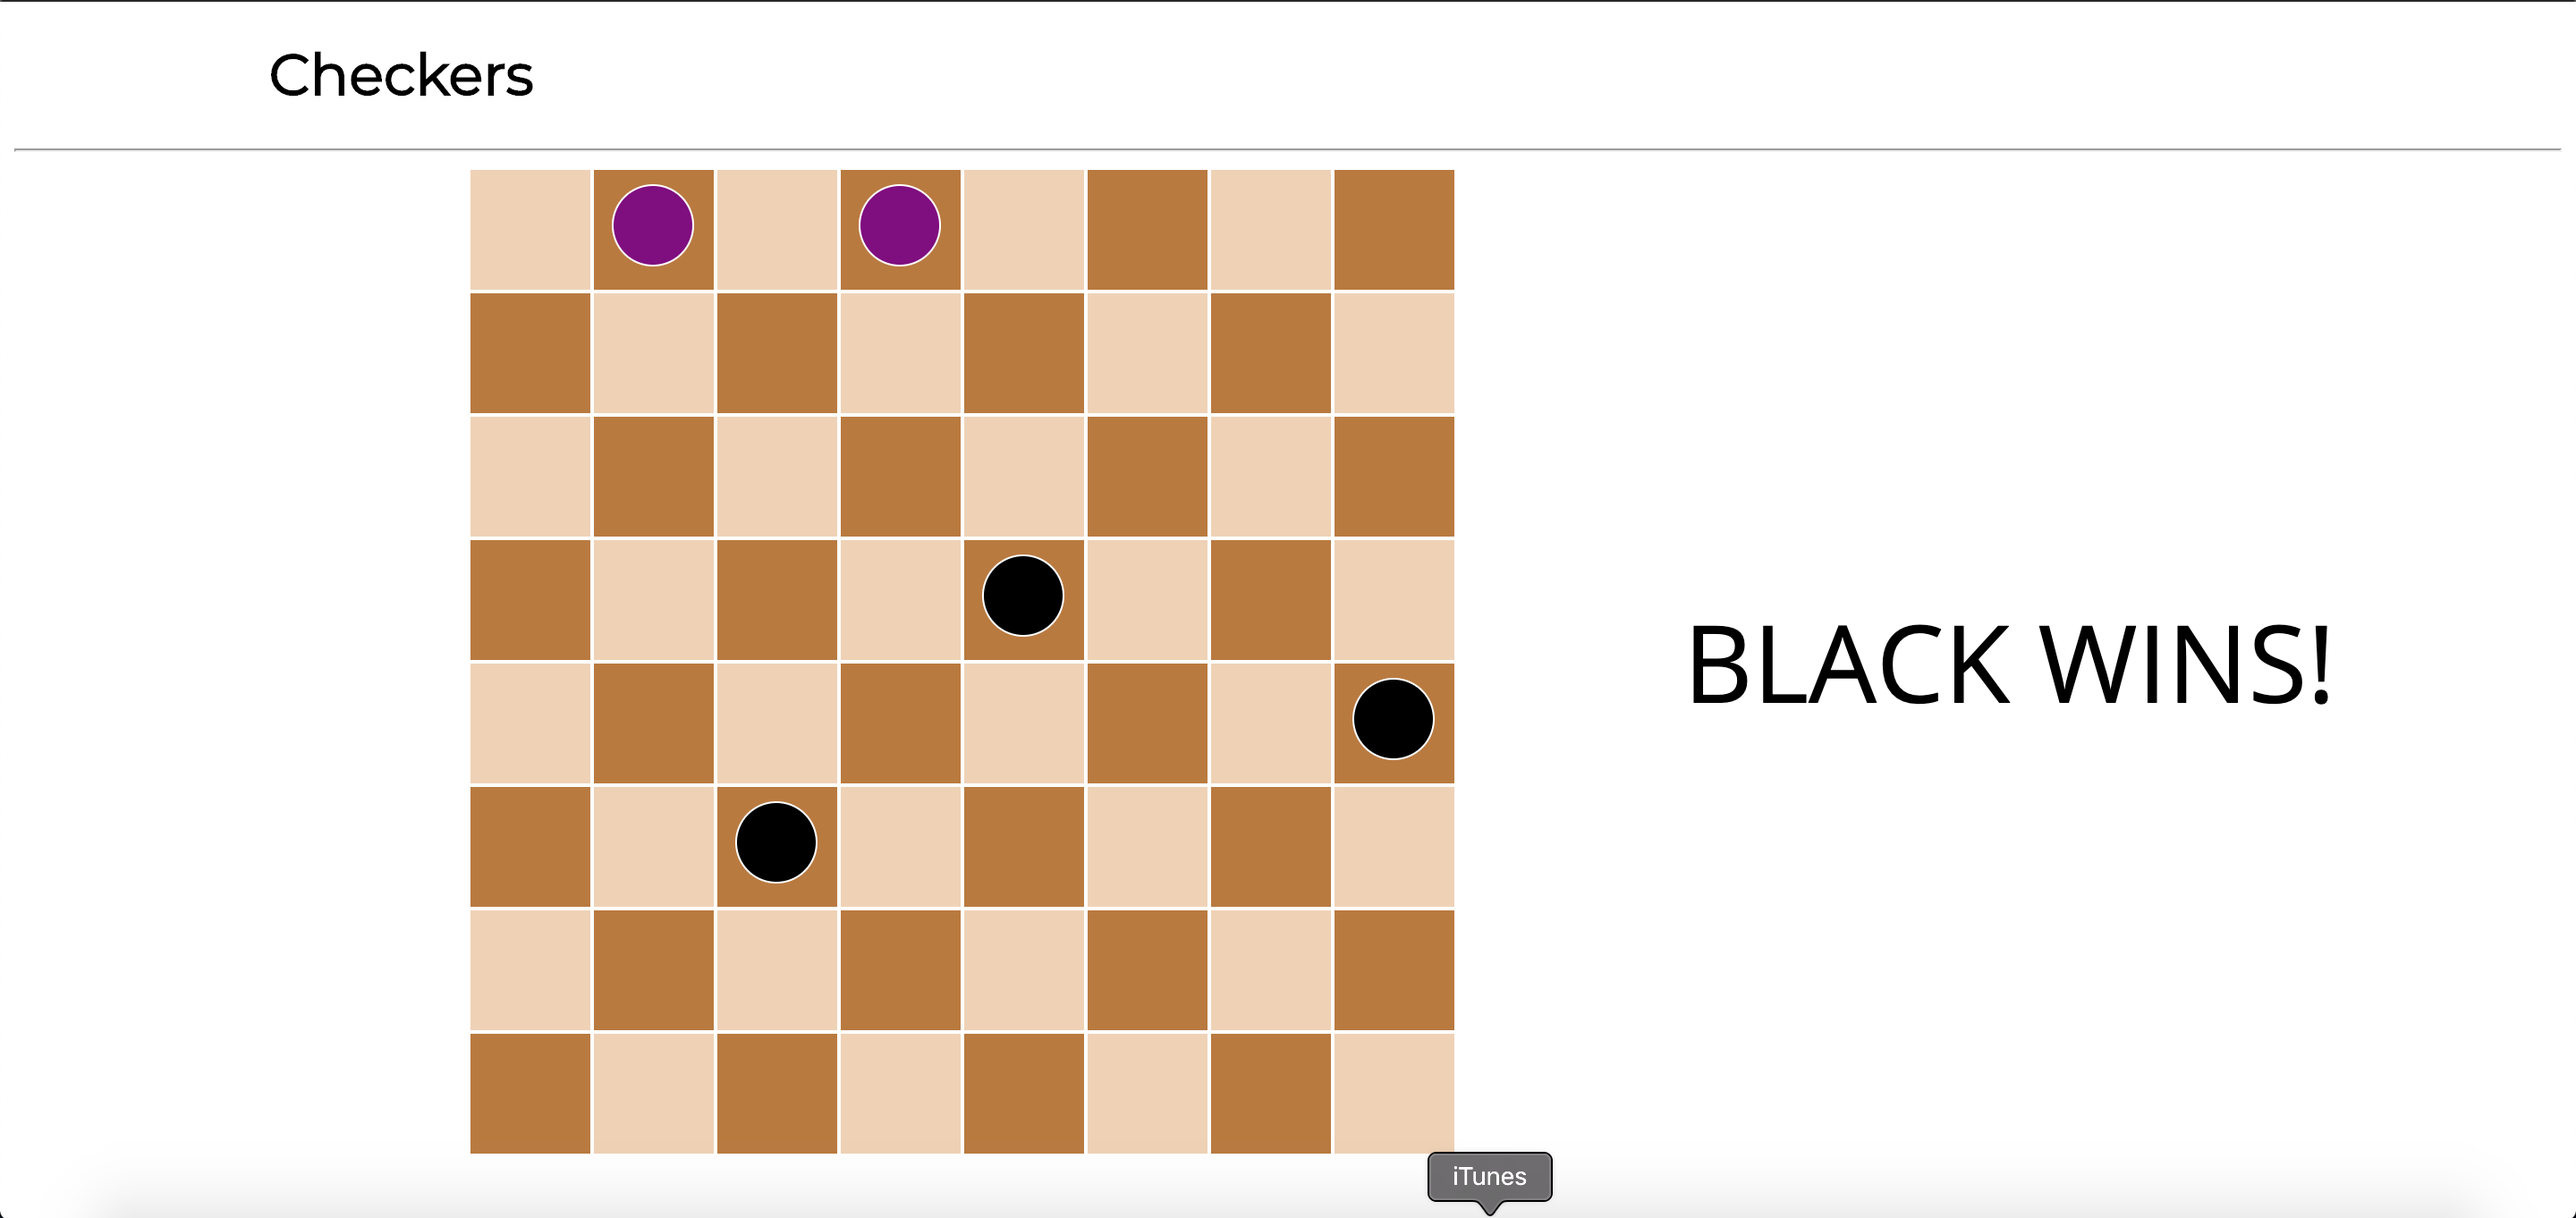
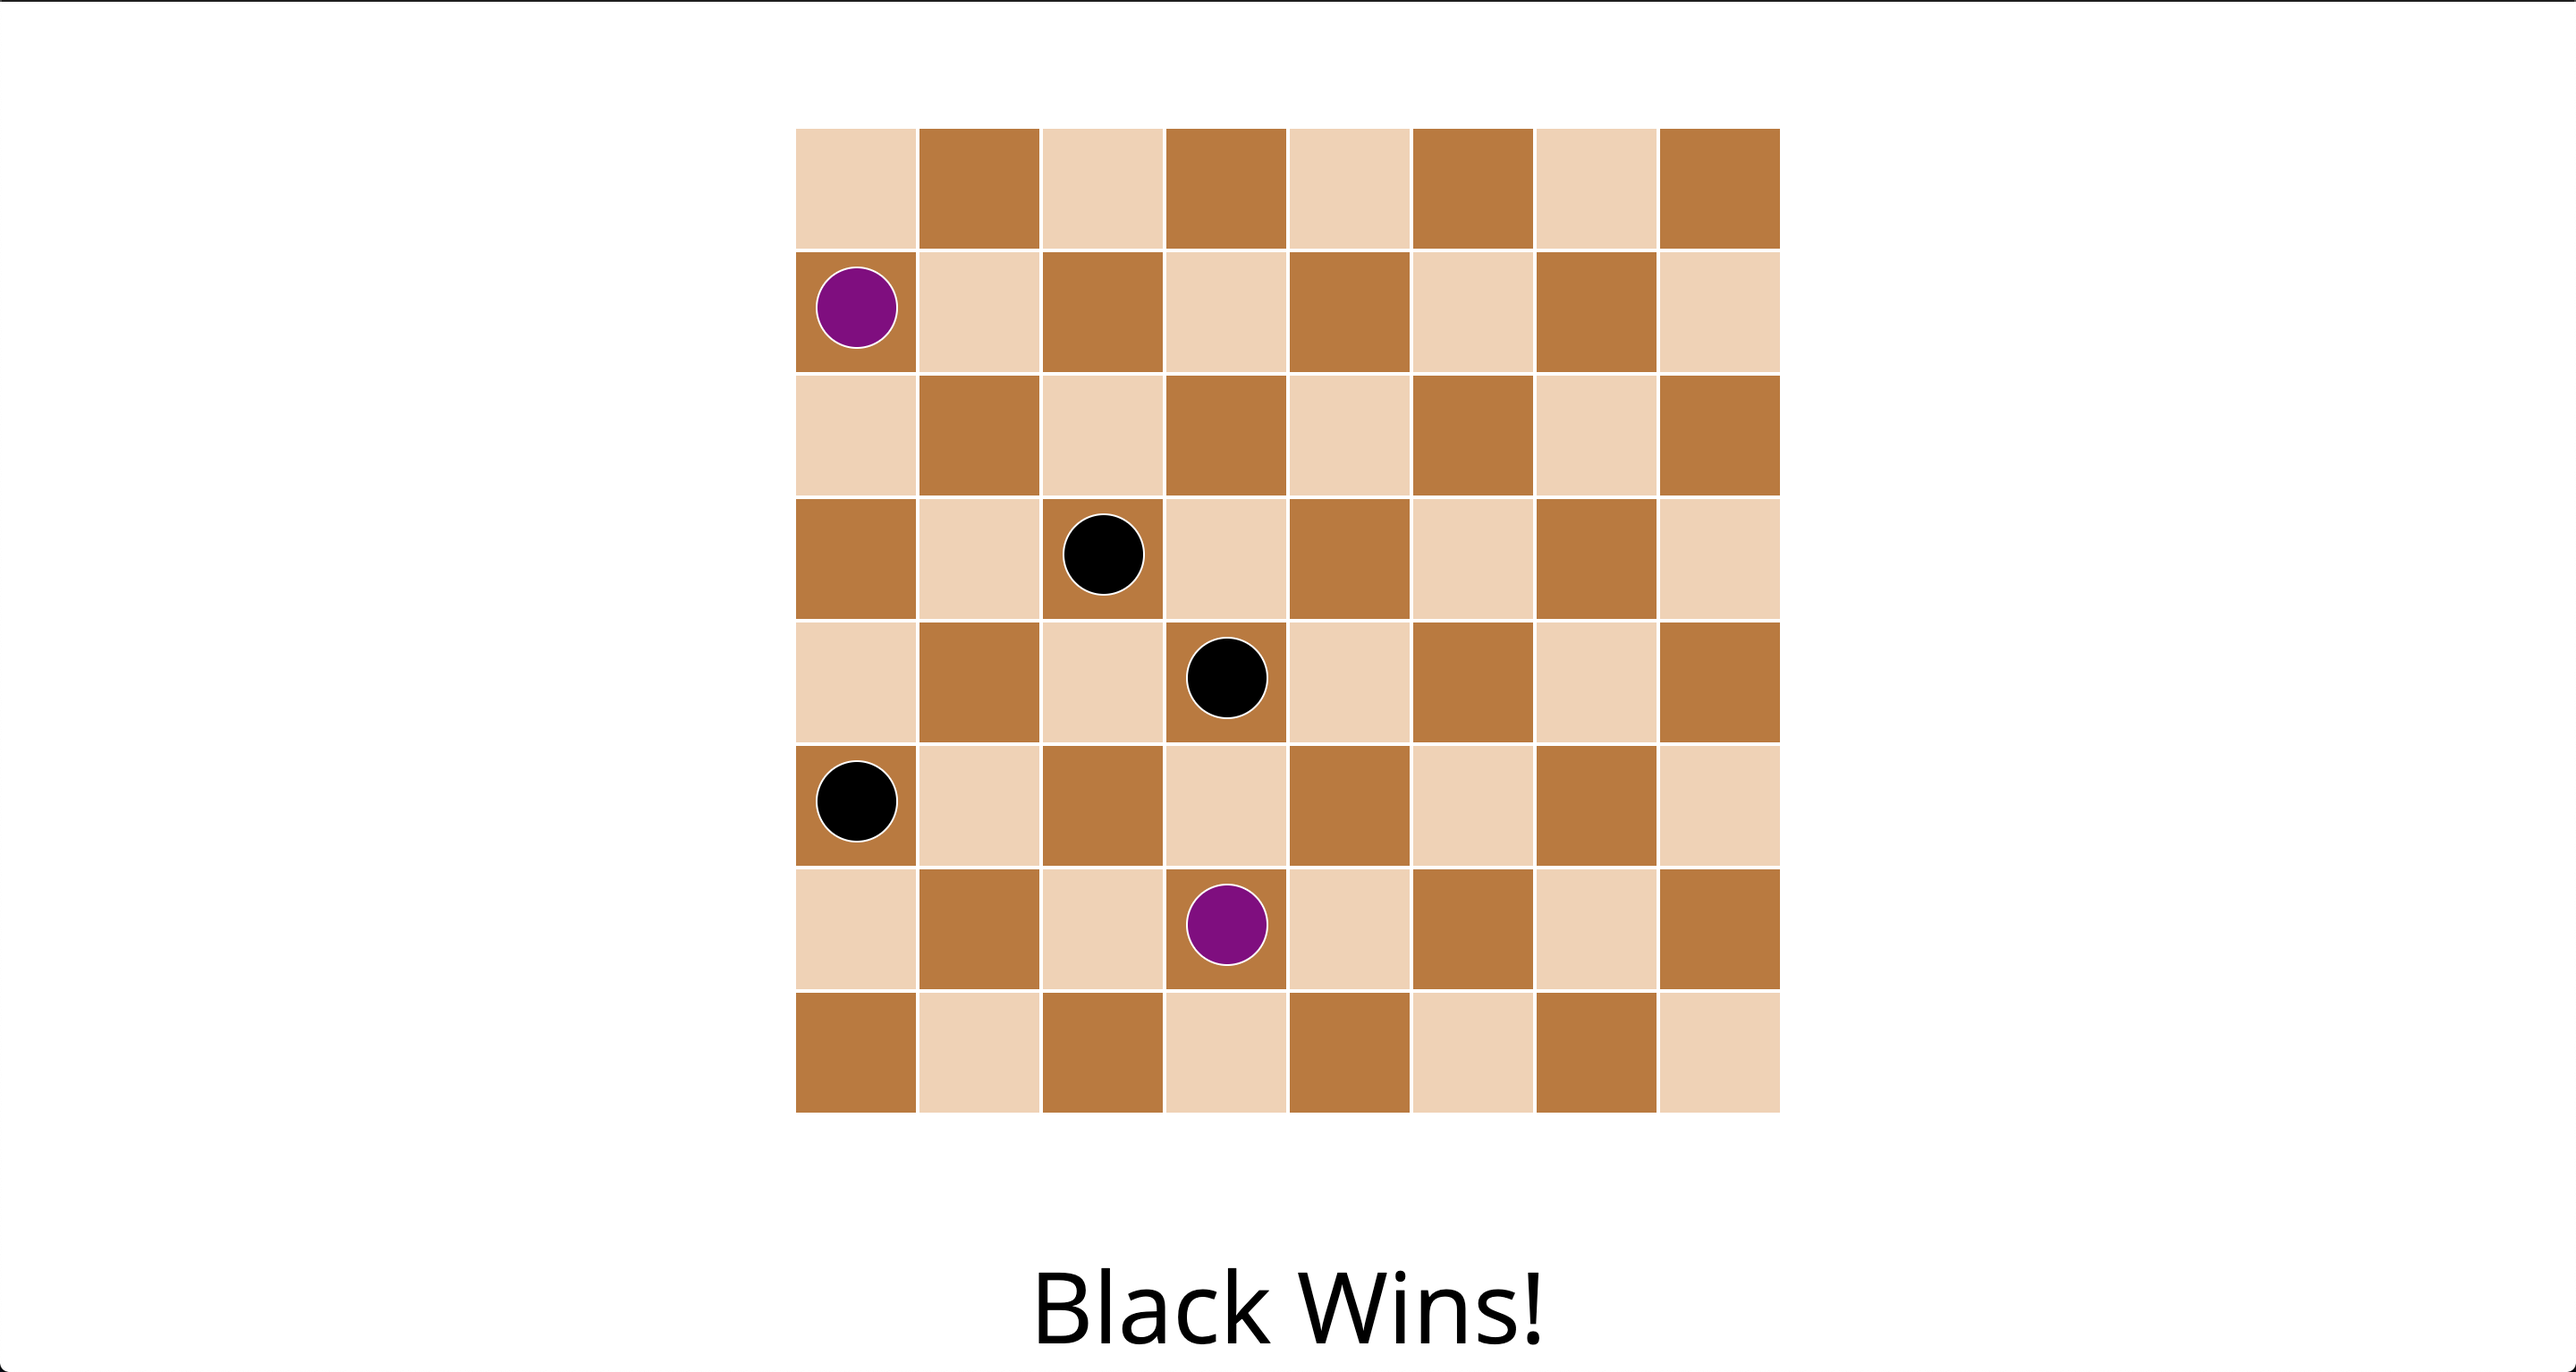
update readme

diff --git a/script.js b/script.js
@@ -25,6 +25,7 @@ let redsPieces = document.querySelectorAll("p");
 let blacksPieces = document.querySelectorAll("span")
 const redTurnText = document.querySelectorAll(".red-turn-text");
 const blackTurntext = document.querySelectorAll(".black-turn-text");
+const divider = document.querySelector("#divider")
 
 // player properties
 let turn = true;
@@ -315,13 +316,19 @@ function removeEventListeners() {
 // Checks for a win
 function checkForWin() {
     if (blackScore === 0) {
-        redTurnText.style.color = "black";
-        blackTurntext.textContent = "";
-        redTurnText.textContent = "RED WINS!";
+        divider.style.display = "none";
+        for (let i = 0; i < redTurnText.length; i++) {
+            redTurnText[i].style.color = "black";
+            blackTurntext[i].style.display = "none";
+            redTurnText[i].textContent = "RED WINS!";
+        }
     } else if (redScore === 0) {
-        blackTurntext.style.color = "black";
-        redTurnText.textContent = "";
-        blackTurntext.textContent = "BLACK WINS!";
+        divider.style.display = "none";
+        for (let i = 0; i < blackTurntext.length; i++) {            
+            blackTurntext[i].style.color = "black";
+            redTurnText[i].style.display = "none";
+            blackTurntext[i].textContent = "BLACK WINS!";
+        }
     }
     changePlayer();
 }

diff --git a/style.css b/style.css
@@ -156,7 +156,7 @@ span {
     }
 }
 
-@media screen and (max-width: 345px or max-height: 630) {
+@media screen and (max-width: 345px) {
     .red-piece {
         height: 2.5vw;
         width: 2.5vw;

diff --git a/README.md b/README.md
@@ -8,7 +8,6 @@ Checkers browser game for player vs. player
 
 * Future improvments:
   * Double jumps
-  * Find ways to shorten code
   * Make wins more extravagant
   * Create a reset button if you want to play again (instead of refreshing)
   * Create a player vs. CPU mode
@@ -17,6 +16,6 @@ Checkers browser game for player vs. player
 
 Screenshots:
 
-![checkers game](Images/checkersscreenshot.png "Checkers")
+![checkers game](Images/checkersgame.png "Checkers")
 
 ![win](Images/checkerswin.png "Checkers win")
